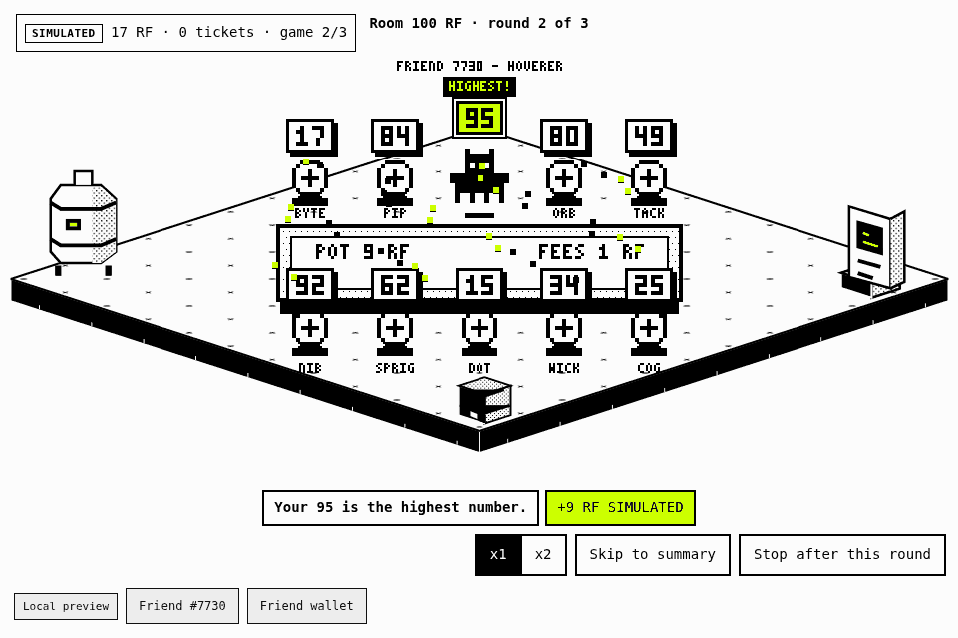
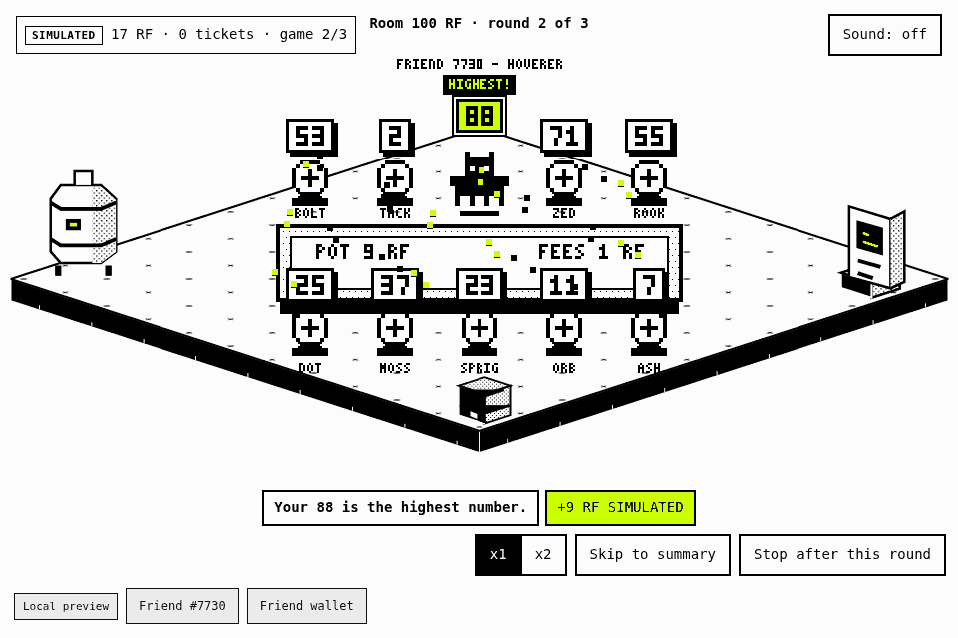
Make the sound button clearer and add it to the HUD
The Settings button now reads "Sound: off - turn on" or "Sound: on - turn off" instead
of a bare "Sound off" that looked like an action. A small Sound button in the HUD of the
hall and the table shows the state and toggles it without opening Settings. The receipt
row for the fees of all tables is now "All table fees, bots included (model)". Game
logic and rules are unchanged. Tests, README and images are updated.

diff --git a/games/friend-rooms/index.tsx b/games/friend-rooms/index.tsx
@@ -231,11 +231,14 @@ export default function FriendRooms({ friendId, client, paused }: GameComponentP
   });
 
   const backToHall = () => { setMenu(null); setScreen("hall"); };
+  const toggleSound = () => { const next = !muted; setMuted(next); sound.current?.setMuted(next); if (!next) void sound.current?.unlock(); };
+  const soundState = muted ? "off" : "on", soundAction = muted ? "turn on" : "turn off";
   const missing = Math.max(0, games - Number(snapshot.consumables));
   const blocked = unfinished.length > 0 ? "Finish your unfinished rounds first." : maxGames === 0
     ? (snapshot.rfBalance < definition.price ? "Not enough simulated RF for a ticket." : "New tickets are paused until winnings are collected and prize backing is free again.") : "";
   const hud = <div className="fr-hud"><span><b className="fr-tag">SIMULATED</b> {rf(snapshot.rfBalance)} · {snapshot.consumables.toString()} tickets
     {screen === "room" && progress.total > 0 && <> · game {progress.done}/{progress.total}</>}</span>
+    <button type="button" className="fr-sound" aria-label={`Sound: ${soundState} — ${soundAction}`} title={`Sound is ${soundState}. Press to ${soundAction}.`} disabled={paused} onClick={toggleSound}>Sound: {soundState}</button>
     {screen === "hall" && <button type="button" onClick={() => openMenu("settings")}>Settings</button>}</div>;
   const status = <p role={error ? "alert" : "status"}>{error || message || (busy ? "Waiting for SDK confirmation…" : "All RF amounts are SIMULATED.")}</p>;
 
@@ -303,14 +306,14 @@ export default function FriendRooms({ friendId, client, paused }: GameComponentP
           <tr><th>Tickets spent</th><td>{rf(definition.price * BigInt(career.played))} SIMULATED</td></tr>
           <tr><th>Prizes won</th><td>{rf(prize * BigInt(career.wins))} SIMULATED</td></tr>
           <tr><th>Table fees burned (model)</th><td>{rf(economy.fee * BigInt(career.played))} model</td></tr>
-          <tr><th>Fees of the whole tables, bots included (model)</th><td>{rf(economy.tableFees * BigInt(career.played))} model</td></tr>
+          <tr><th>All table fees, bots included (model)</th><td>{rf(economy.tableFees * BigInt(career.played))} model</td></tr>
         </tbody></table>
         <p>Table fees are a model of a future room contract. SDK v0.1 does not burn RF: the whole ticket stays in the preview ledger as game backing.</p>
         {winsWaiting > 0n && <p>Winnings waiting: {rf(winningsWaiting)}. <button type="button" className="rf-frame-primary" disabled={busy || paused} onClick={() => void collect()}>Collect winnings</button></p>}
         {unfinished.length > 0 && <p>{unfinished.length} unfinished {unfinished.length === 1 ? "round remains" : "rounds remain"}. Use Resume at the table.</p>}
         <button type="button" onClick={() => setMenu(null)}>Close</button>
       </> : <>
-        <button type="button" aria-pressed={!muted} onClick={() => { const next = !muted; setMuted(next); sound.current?.setMuted(next); if (!next) void sound.current?.unlock(); }}>{muted ? "Sound off" : "Sound on"}</button>
+        <button type="button" onClick={toggleSound}>Sound: {soundState} — {soundAction}</button>
         <label><input type="checkbox" checked={reducedMotion} onChange={event => setReducedMotion(event.target.checked)} /> Reduce motion</label>
         <p>All economy actions are simulated. Reloading resets this preview. Wallet connection and ownership checks are provided by the SDK.</p>
       </>}{status}

diff --git a/games/friend-rooms/README.md b/games/friend-rooms/README.md
@@ -36,7 +36,7 @@ simulated. Regenerate them with `node games/friend-rooms/capture-media.mjs` (nee
 - Use **Stop after this round** to pause a run. Unfinished rounds stay with your Friend; **Resume** settles those
   same rounds and never buys or uses another ticket.
 - Winnings wait in your inventory until you press **Collect winnings** (one more SDK prompt).
-- Settings has mute and reduce motion. Reduce motion is also read from your system setting.
+- Sound is off by default. The small **Sound** button in the top bar (in the hall and at the table) and the button in Settings turn it on and off; each says whether sound is on or off and what pressing it does. Settings also has reduce motion, which is also read from your system setting.
 - The three other doors (Room 1,000 / 10,000 / 100,000 RF) are locked: they need future SDK support.
 
 ## Rules and economy
